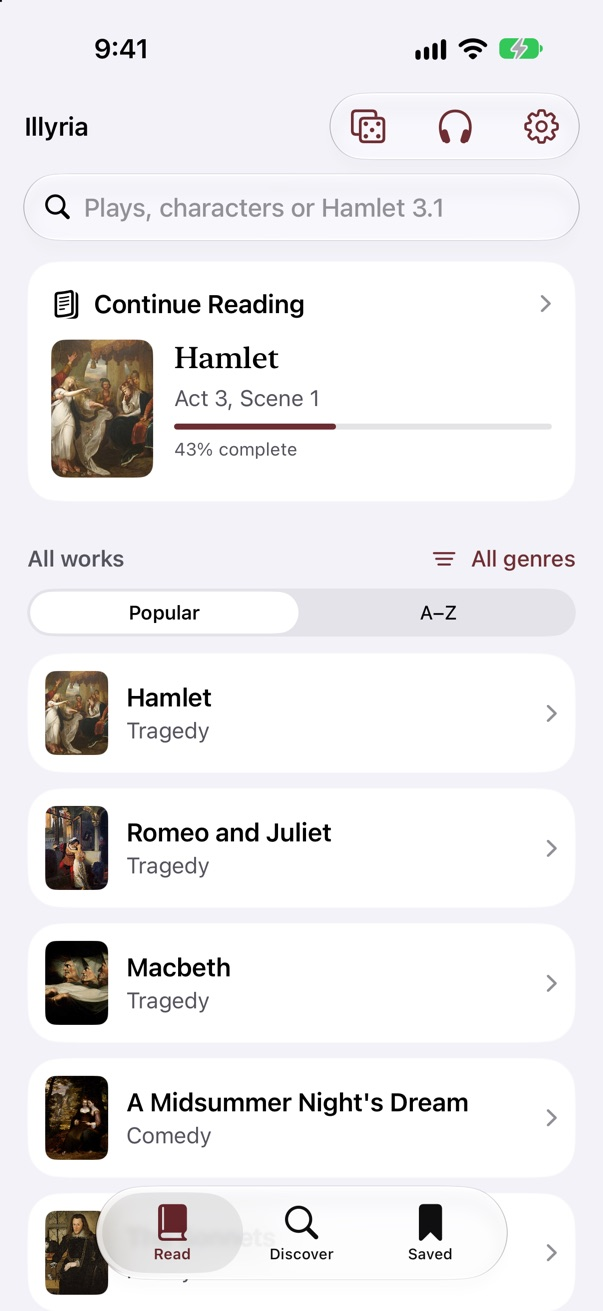
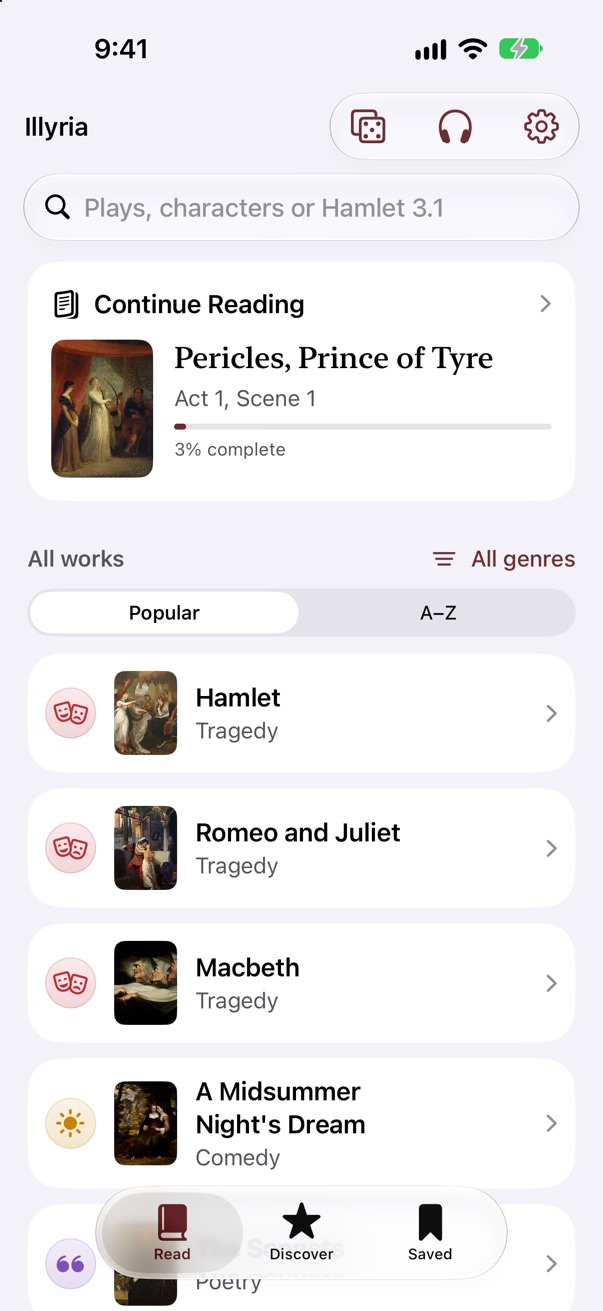
New app screenshots in the homepage mockups

diff --git a/index.html b/index.html
@@ -30,10 +30,9 @@
 </header>
 
 <div class="stage" aria-label="Illyria on iPhone">
-  <div class="phone left"><img src="assets/shots/library.jpg" alt="The library of plays, sonnets and poems"></div>
-  <div class="phone mid"><img src="assets/shots/reader.jpg" alt="Reading Hamlet with a word’s meaning shown"></div>
-  <div class="phone right"><img src="assets/shots/character.jpg" alt="A character page"></div>
-</div>
+  <div class="phone left"><img src="assets/shots/library.jpg?v=2" alt="The library, with Continue Reading and the most popular plays"></div>
+  <div class="phone mid"><img src="assets/shots/reader.jpg?v=2" alt="Reading Hamlet, Act 1, Scene 2, with hard words underlined"></div>
+  <div class="phone right"><img src="assets/shots/line.jpg?v=2" alt="A line from Hamlet with the meaning of its hard word"></div></div>
 
 <main>
   <div class="col">
